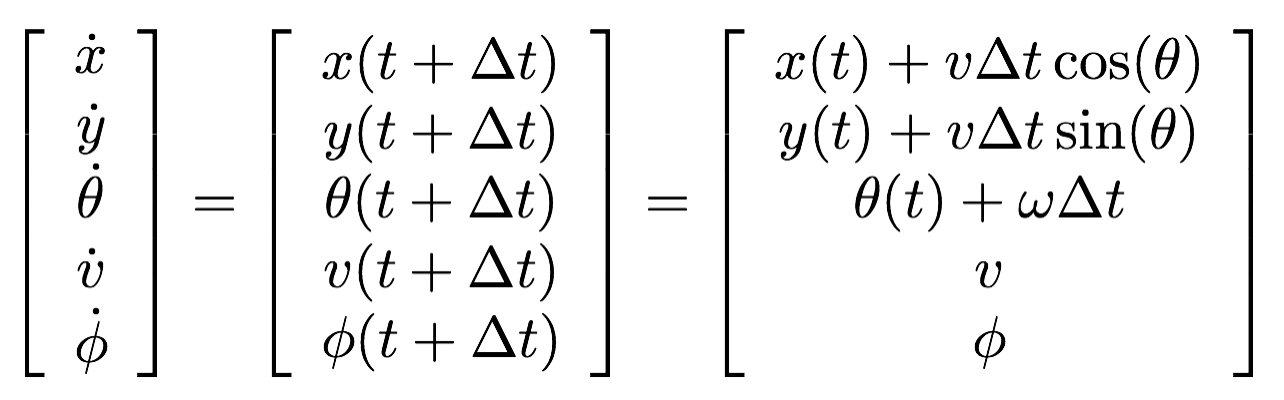
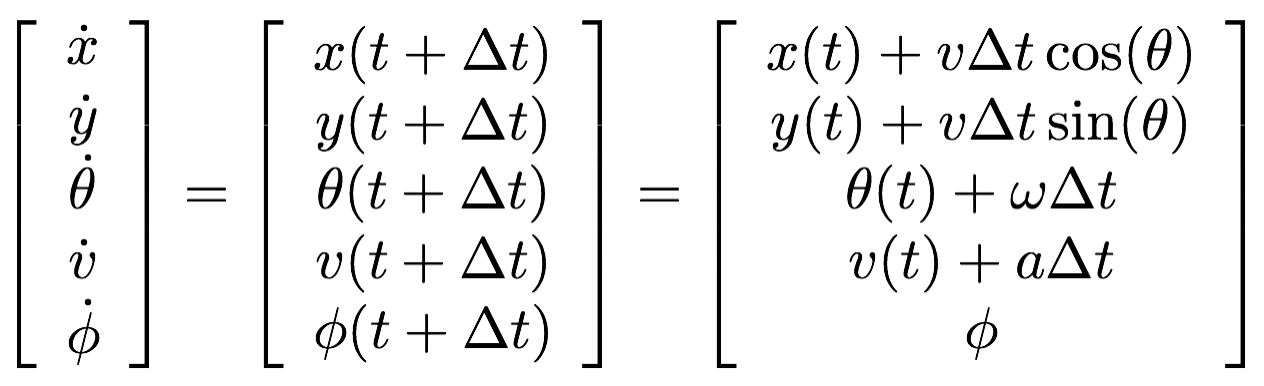
updated images and index.html

diff --git a/vehicle-control/index.html b/vehicle-control/index.html
@@ -51,25 +51,23 @@
 
 	<h3>2.2 Representation of Vehicle Models</h3>
 
-	<p>It is common to represent the state of a vehicle by a
-	  multi-dimensional vector. Specifically, the state of a
-	  vehicle can be represented by its position <i>x</i>
-	  and <i>y</i>, orientation, velocity. The figure at the below
-	  illustrates a kinematic model, aka bicycle model and its
-	  differential equation. The differential equation tells us
-	  how the state is changed over time.</p>
+	<p>The state of a vehicle typically represents its
+	  position <i>x</i> and <i>y</i>, orientation <i>theta</i>,
+	  velocity <i>v</i>. The following figure illustrates a
+	  kinematic model (aka bicycle model) and its differential
+	  equation. The differential equation tells us how the state
+	  is changed over time.</p>
 
 	<img src="/vehicle-control/fig/kinematic-bicycle-model.png" width="400" height="500" />
 
 	<p>where <b>u</b> is a control input for an actuation command
 	that consists of <i>a</i> for acceleration both positive and
-	negative and <i>delta</i> for steering angle. Any ground
-	vehicles typically have three actuators: steering wheel,
-	throttle and break pedals. For the simplicity, one variable is
-	used to represent two of those actuators, throttle and break
-	pedals, together and change the values of throttle and break
-	pedals together as in + for throttle and - for break
-	pedals. </p>
+	negative and <i>phi</i> for steering angle. A ground vehicle
+	typically has three actuators: steering wheel, throttle and
+	break pedals. For the simplicity, one variable is used to
+	represent two of those actuators, throttle and break pedals,
+	together and change the values of throttle and break pedals
+	together as in + for throttle and - for break pedals. </p>
 
 	<p> For an actual implementation, we need to represent
 	such a differential equation in a continuous time into a
@@ -78,7 +76,52 @@
 	<img src="/vehicle-control/fig/bicycle-discrete-form.png"/>
 
 	<p>where omega is the heading rate of change or angular rate
-	and defined as v/L tan(phi(t)) and v is updated by v = v + a*dt.</p>
+	  and defined as v/L tan(phi(t)) and v is updated by v = v + a*dt.</p>
+
+	<h3>2.3 Control as Error Minimizing</h3>
+	<p>In a
+	typical <a href="http://www.fieldrobotics.org/users/alonzo/pubs/papers/JFR_08_Boss.pdf">architecture</a>
+	of self-driving car, a behavior planner sets the goal of a
+	vehicle (e.g., drive through a lane and stop at the stop line
+	of an intersection). Given a motion goal, map, vehicle
+	location, information about other neighboring objects, a
+	motion planner generates a trajectory. Given this reference
+	trajectory, a controller regulates the outputs of actuators to
+	  follow the trajectory.</p>
+
+	<p>How does a controller actually do this -- regulating the
+	outputs of the actuators to follow the reference trajectory?
+	It does that by minimizing the area between the reference
+	trajectory and the vehicle's actual driving
+	path. Specifically, one can minimize this error by predicting
+	the vehicle's path and then adjusting the control inputs to
+	minimize the difference between the prediction and the
+	reference trajectory. This is where one can use a kinematic
+	model to predict the vehicle's future state. Once you've
+	predicted the error you can actuate with the vehicle to
+	  minimize the error over time.</p>
+
+	<p>Thus the goal of developing a vehicle controller is to
+	develop a controller that minimizes the distance between the
+	predicted position of a vehicle and the corresponding position
+	at the reference trajectory. This error between a predicted
+	location and the corresponding location at the reference
+	trajectory is called the <b>cross track error</b> (CTE). We
+	also want to minimize the difference between the predicted
+	heading/yaw and the actual one at the reference trajectory. We
+	call this the <b>heading/yaw error</b>. Note that the speed is
+	not something we want to minimize. If we do, we would end up
+	minimizing the speed below zero and driving in reverse,
+	possibly.</p>
+
+	<h3>2.4 Errors to Minimize</h3>
+
+	<p>Let's look at how the errors we are interested in change
+	  over time by deriving our kinematic model around these
+	  errors as our new state vector, [x,y,ψ,v,cte,eψ]. Let’s
+	  assume the vehicle is traveling down a straight road and the
+	  longitudinal direction is the same as the x-axis -- the body
+	  frame of which the z axis is up.</p>
 
 	<h2>3. Proportional, Integral, Derivative (PID) Control </h2>
 	<h2>4. Model Predictive Control (MPC)</h2>
